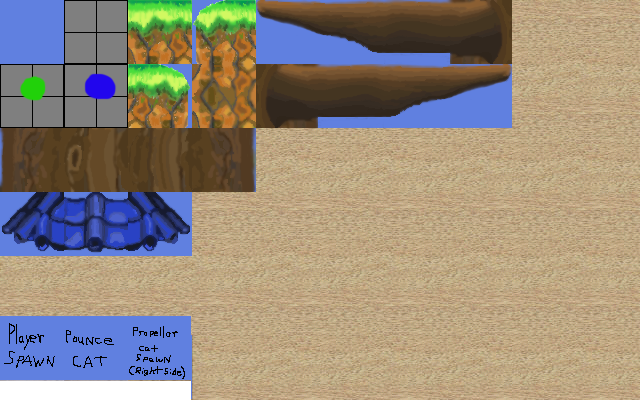
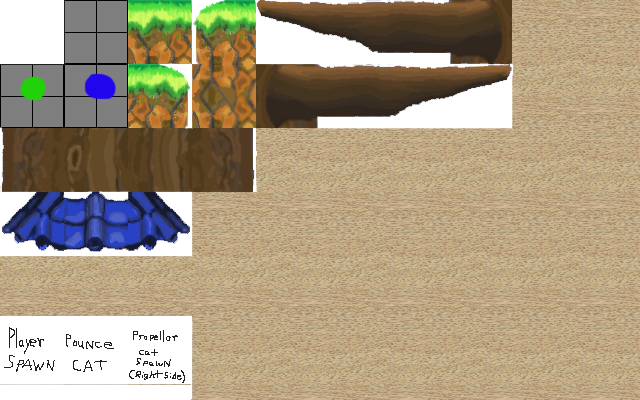
1. Edited all levels to have a background (levels having a different number of backgrounds breaks the rest of the sprites...) 2. Edited the tileset so everything is transparent instead of stupid blue nonsense 3. Fixed some crashes regarding projectiles and despawning bodies

diff --git a/SimpleSideScrollerFramework/src/sssf/gsm/sprite/SpriteManager.cpp b/SimpleSideScrollerFramework/src/sssf/gsm/sprite/SpriteManager.cpp
@@ -377,7 +377,9 @@ void SpriteManager::update(Game *game)
 		if (projectile->getBody()->GetLinearVelocity().x == 0.0f
 			|| projectile->getBody()->GetLinearVelocity().y == 0.0f
 			|| projectile->isMarkedForDeletion()){
-			game->getGSM()->getPhysics()->getWorld()->DestroyBody(projectile->getBody());
+			if (projectile->getBody()){
+				game->getGSM()->getPhysics()->getWorld()->DestroyBody(projectile->getBody());
+			}
 			if (projectile->isMarkedForDeletion()){
 				projectile->markForDeletion();
 			}

diff --git a/NinjaCatCastle/src/ninja_cat_castle/NinjaCatCastleCollisionListener.cpp b/NinjaCatCastle/src/ninja_cat_castle/NinjaCatCastleCollisionListener.cpp
@@ -61,6 +61,10 @@ bool NinjaCatCastleCollisionListener::ShouldCollide(b2Fixture* fixtureA, b2Fixtu
 			if (sprite1->wasHit() || sprite2->wasHit() || sprite1->isDead() || sprite2->isDead()){
 				return false;
 			}
+			else if ((sprite1->isProjectile() && fixtureB->IsSensor())
+				|| (sprite2->isProjectile() && fixtureA->IsSensor())){
+				return false;
+			}
 			else if (fixtureA->IsSensor() || fixtureB->IsSensor()){
 				return true;
 			}
